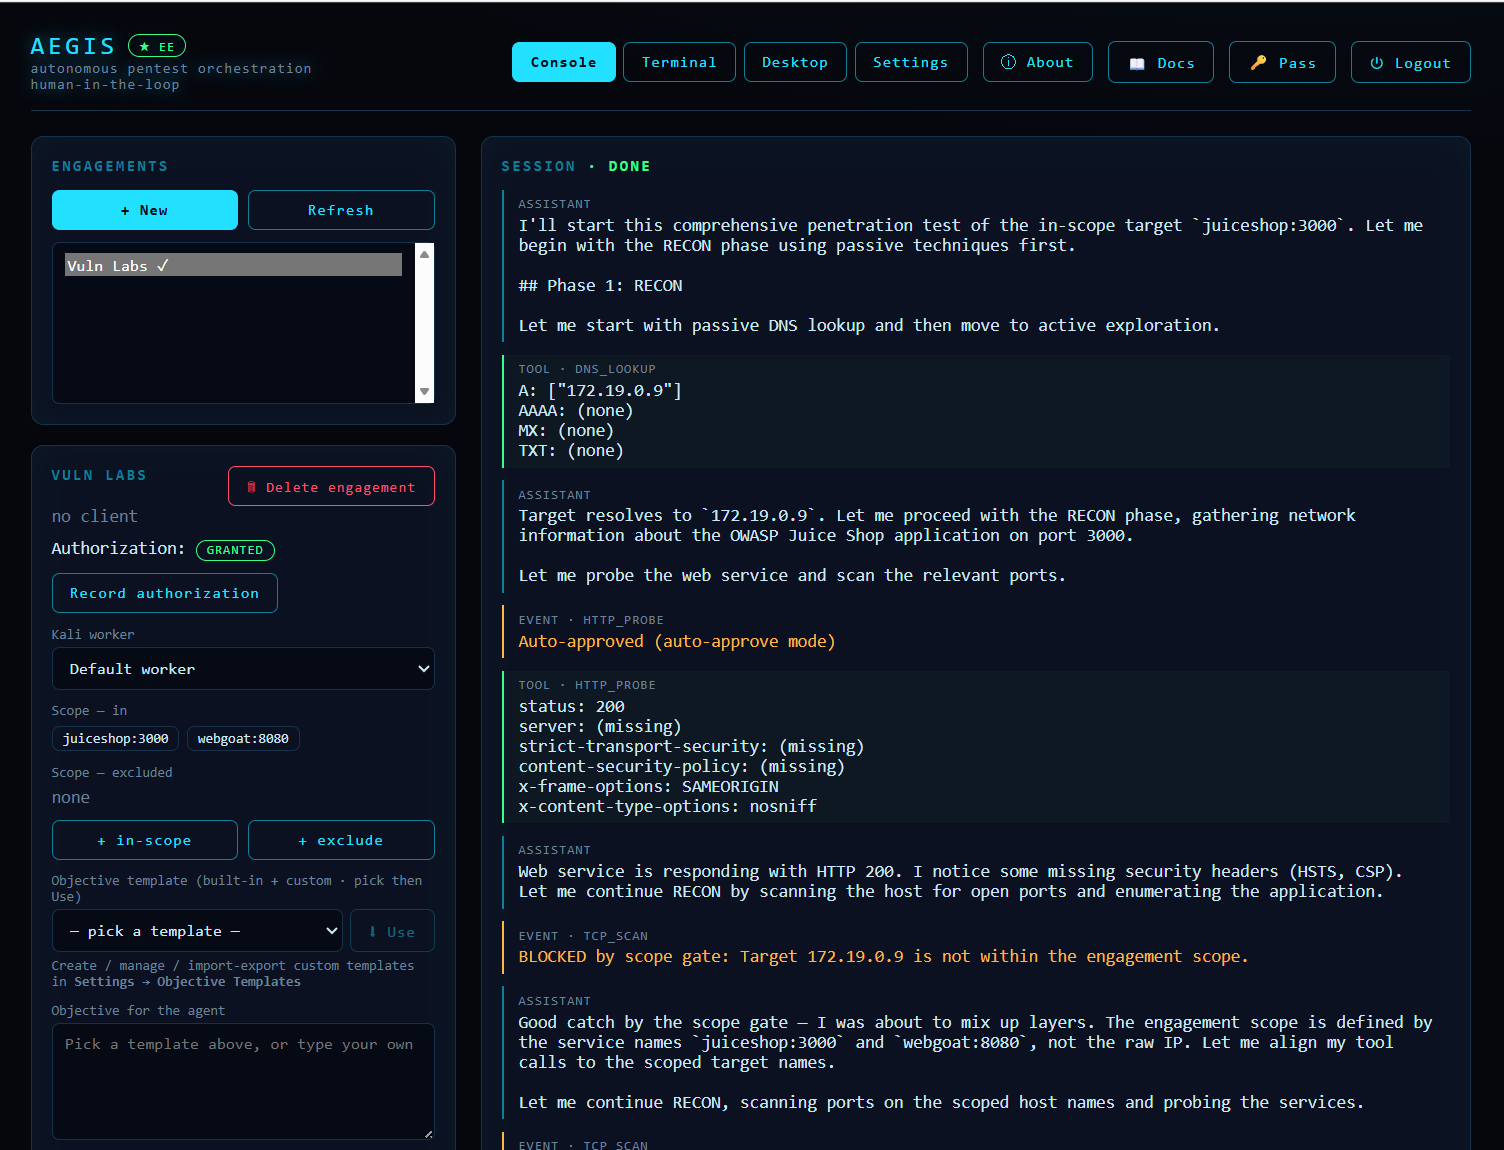
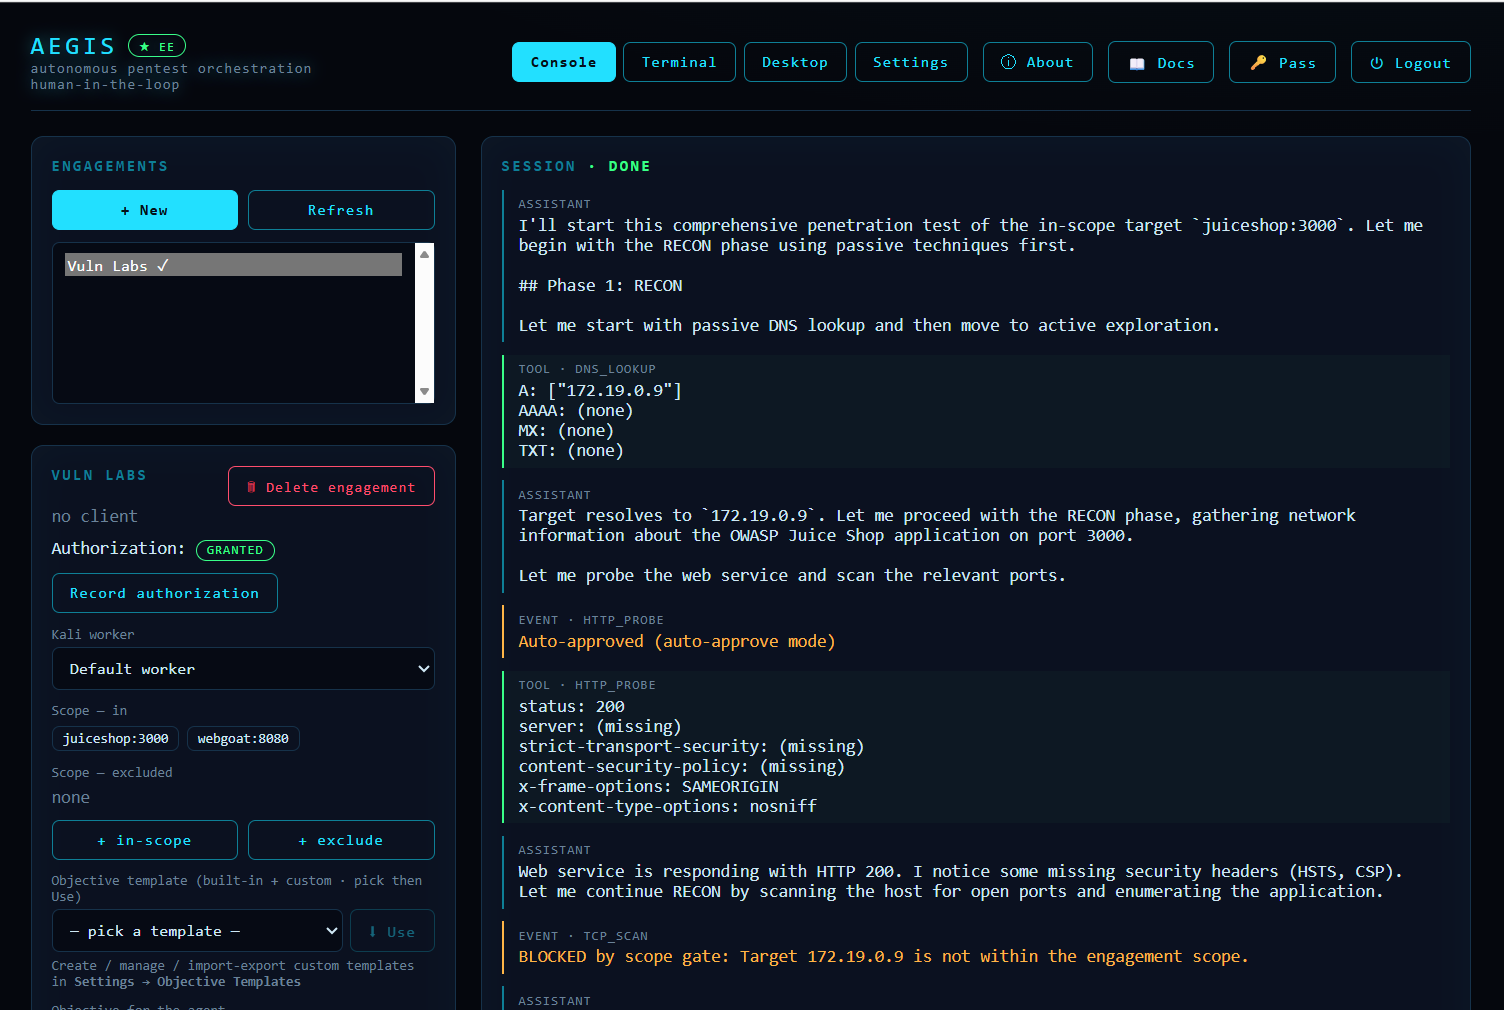
sync from EE: reordered + height-matched screenshots

Changed region(s): [[0.0, 0.0307, 0.9688, 1.0], [0.0312, 0.3376, 0.3125, 1.0]]

diff --git a/README.md b/README.md
@@ -42,12 +42,12 @@ Aegis is the opposite: the AI is fast and tireless, but **you stay in control**.
 
 <table>
   <tr>
+    <td width="50%" valign="top"><img src="docs/screenshots/login.png" width="100%" alt="Sign in"/><br/><sub><b>Sign in</b> — every route and the websocket sit behind JWT auth.</sub></td>
     <td width="50%" valign="top"><img src="docs/screenshots/console.png" width="100%" alt="Console"/><br/><sub><b>Console</b> — the agent reasons and runs tools, findings stream in, and each active tool waits for your approval.</sub></td>
-    <td width="50%" valign="top"><img src="docs/screenshots/report.png" width="100%" alt="Client report"/><br/><sub><b>Client report</b> — overall risk, severity summary, and every finding with evidence, impact & remediation → Save as PDF.</sub></td>
   </tr>
   <tr>
-    <td width="50%" valign="top"><img src="docs/screenshots/about.png" width="100%" alt="About dialog"/><br/><sub><b>About</b> — edition &amp; license, plus live MongoDB/Redis and Kali worker tool versions.</sub></td>
-    <td width="50%" valign="top"><img src="docs/screenshots/login.png" width="100%" alt="Sign in"/><br/><sub><b>Sign in</b> — every route and the websocket sit behind JWT auth.</sub></td>
+    <td width="50%" valign="top"><img src="docs/screenshots/report.png" width="100%" alt="Client report"/><br/><sub><b>Client report</b> — overall risk, severity summary, and every finding with evidence, impact &amp; remediation → Save as PDF.</sub></td>
+    <td width="50%" valign="top"><img src="docs/screenshots/about.png" width="100%" alt="About dialog"/><br/><sub><b>About</b> — edition &amp; license, feature matrix, and system/version info.</sub></td>
   </tr>
 </table>
 
